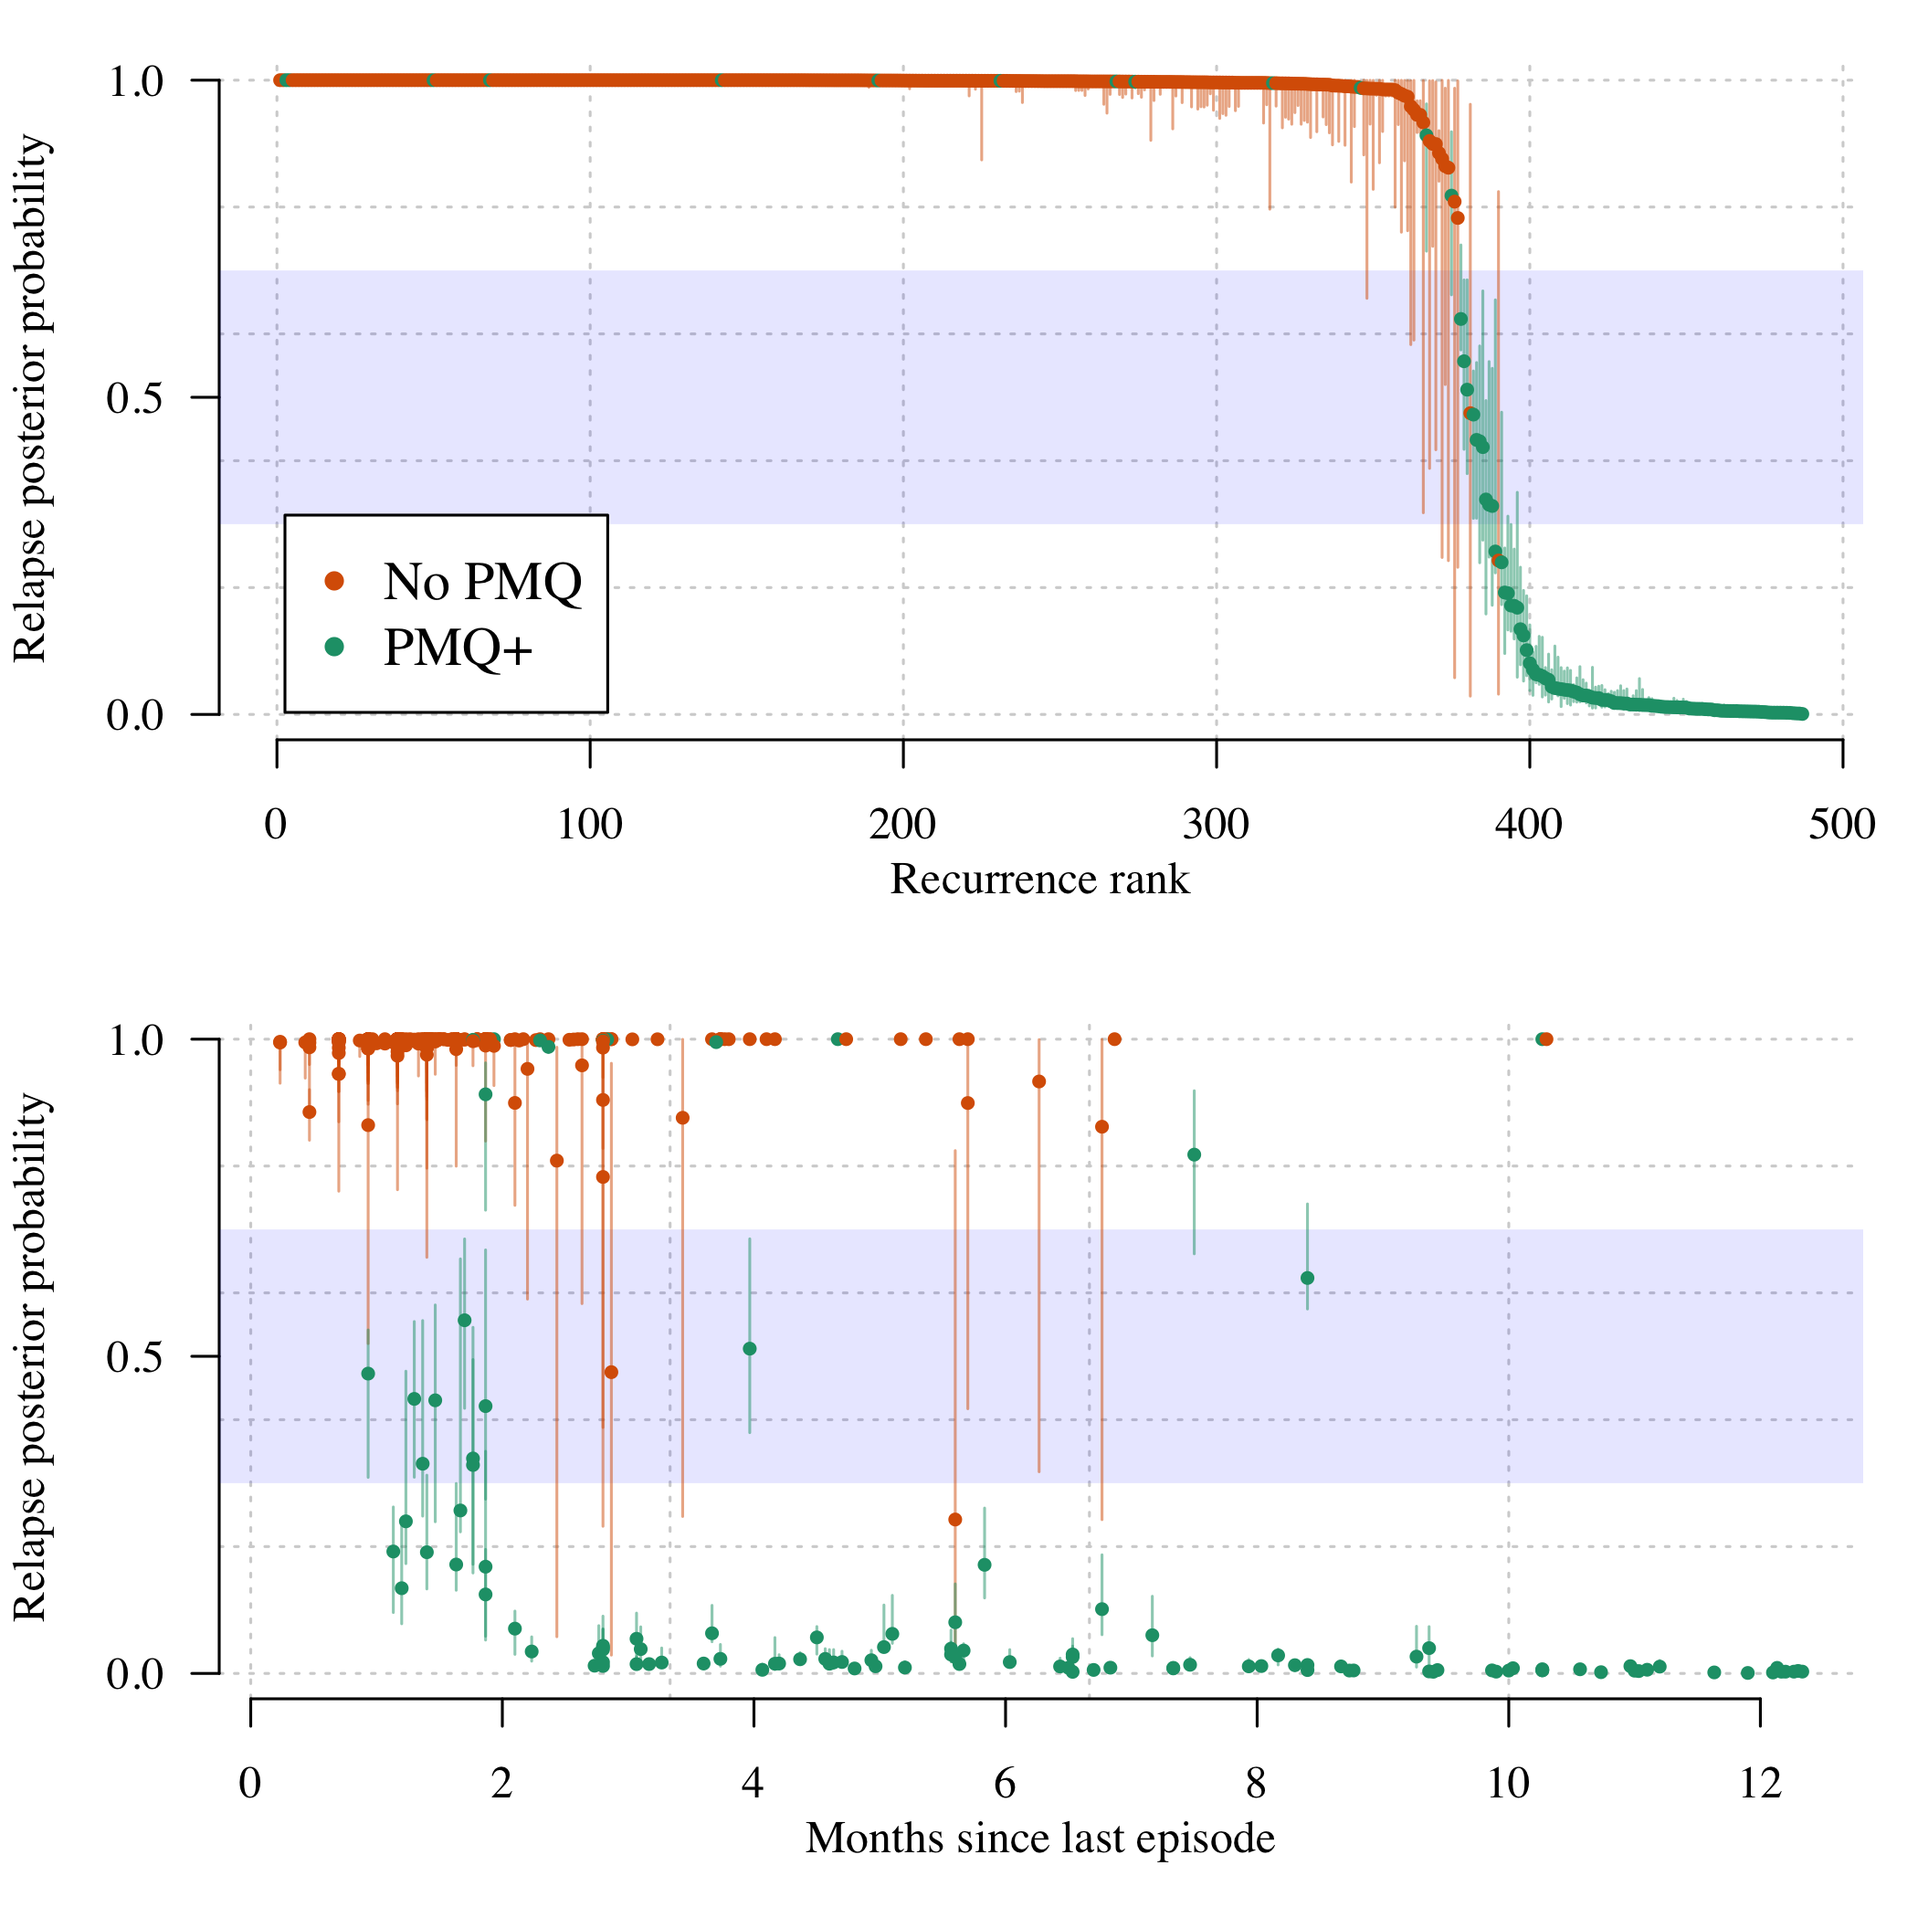
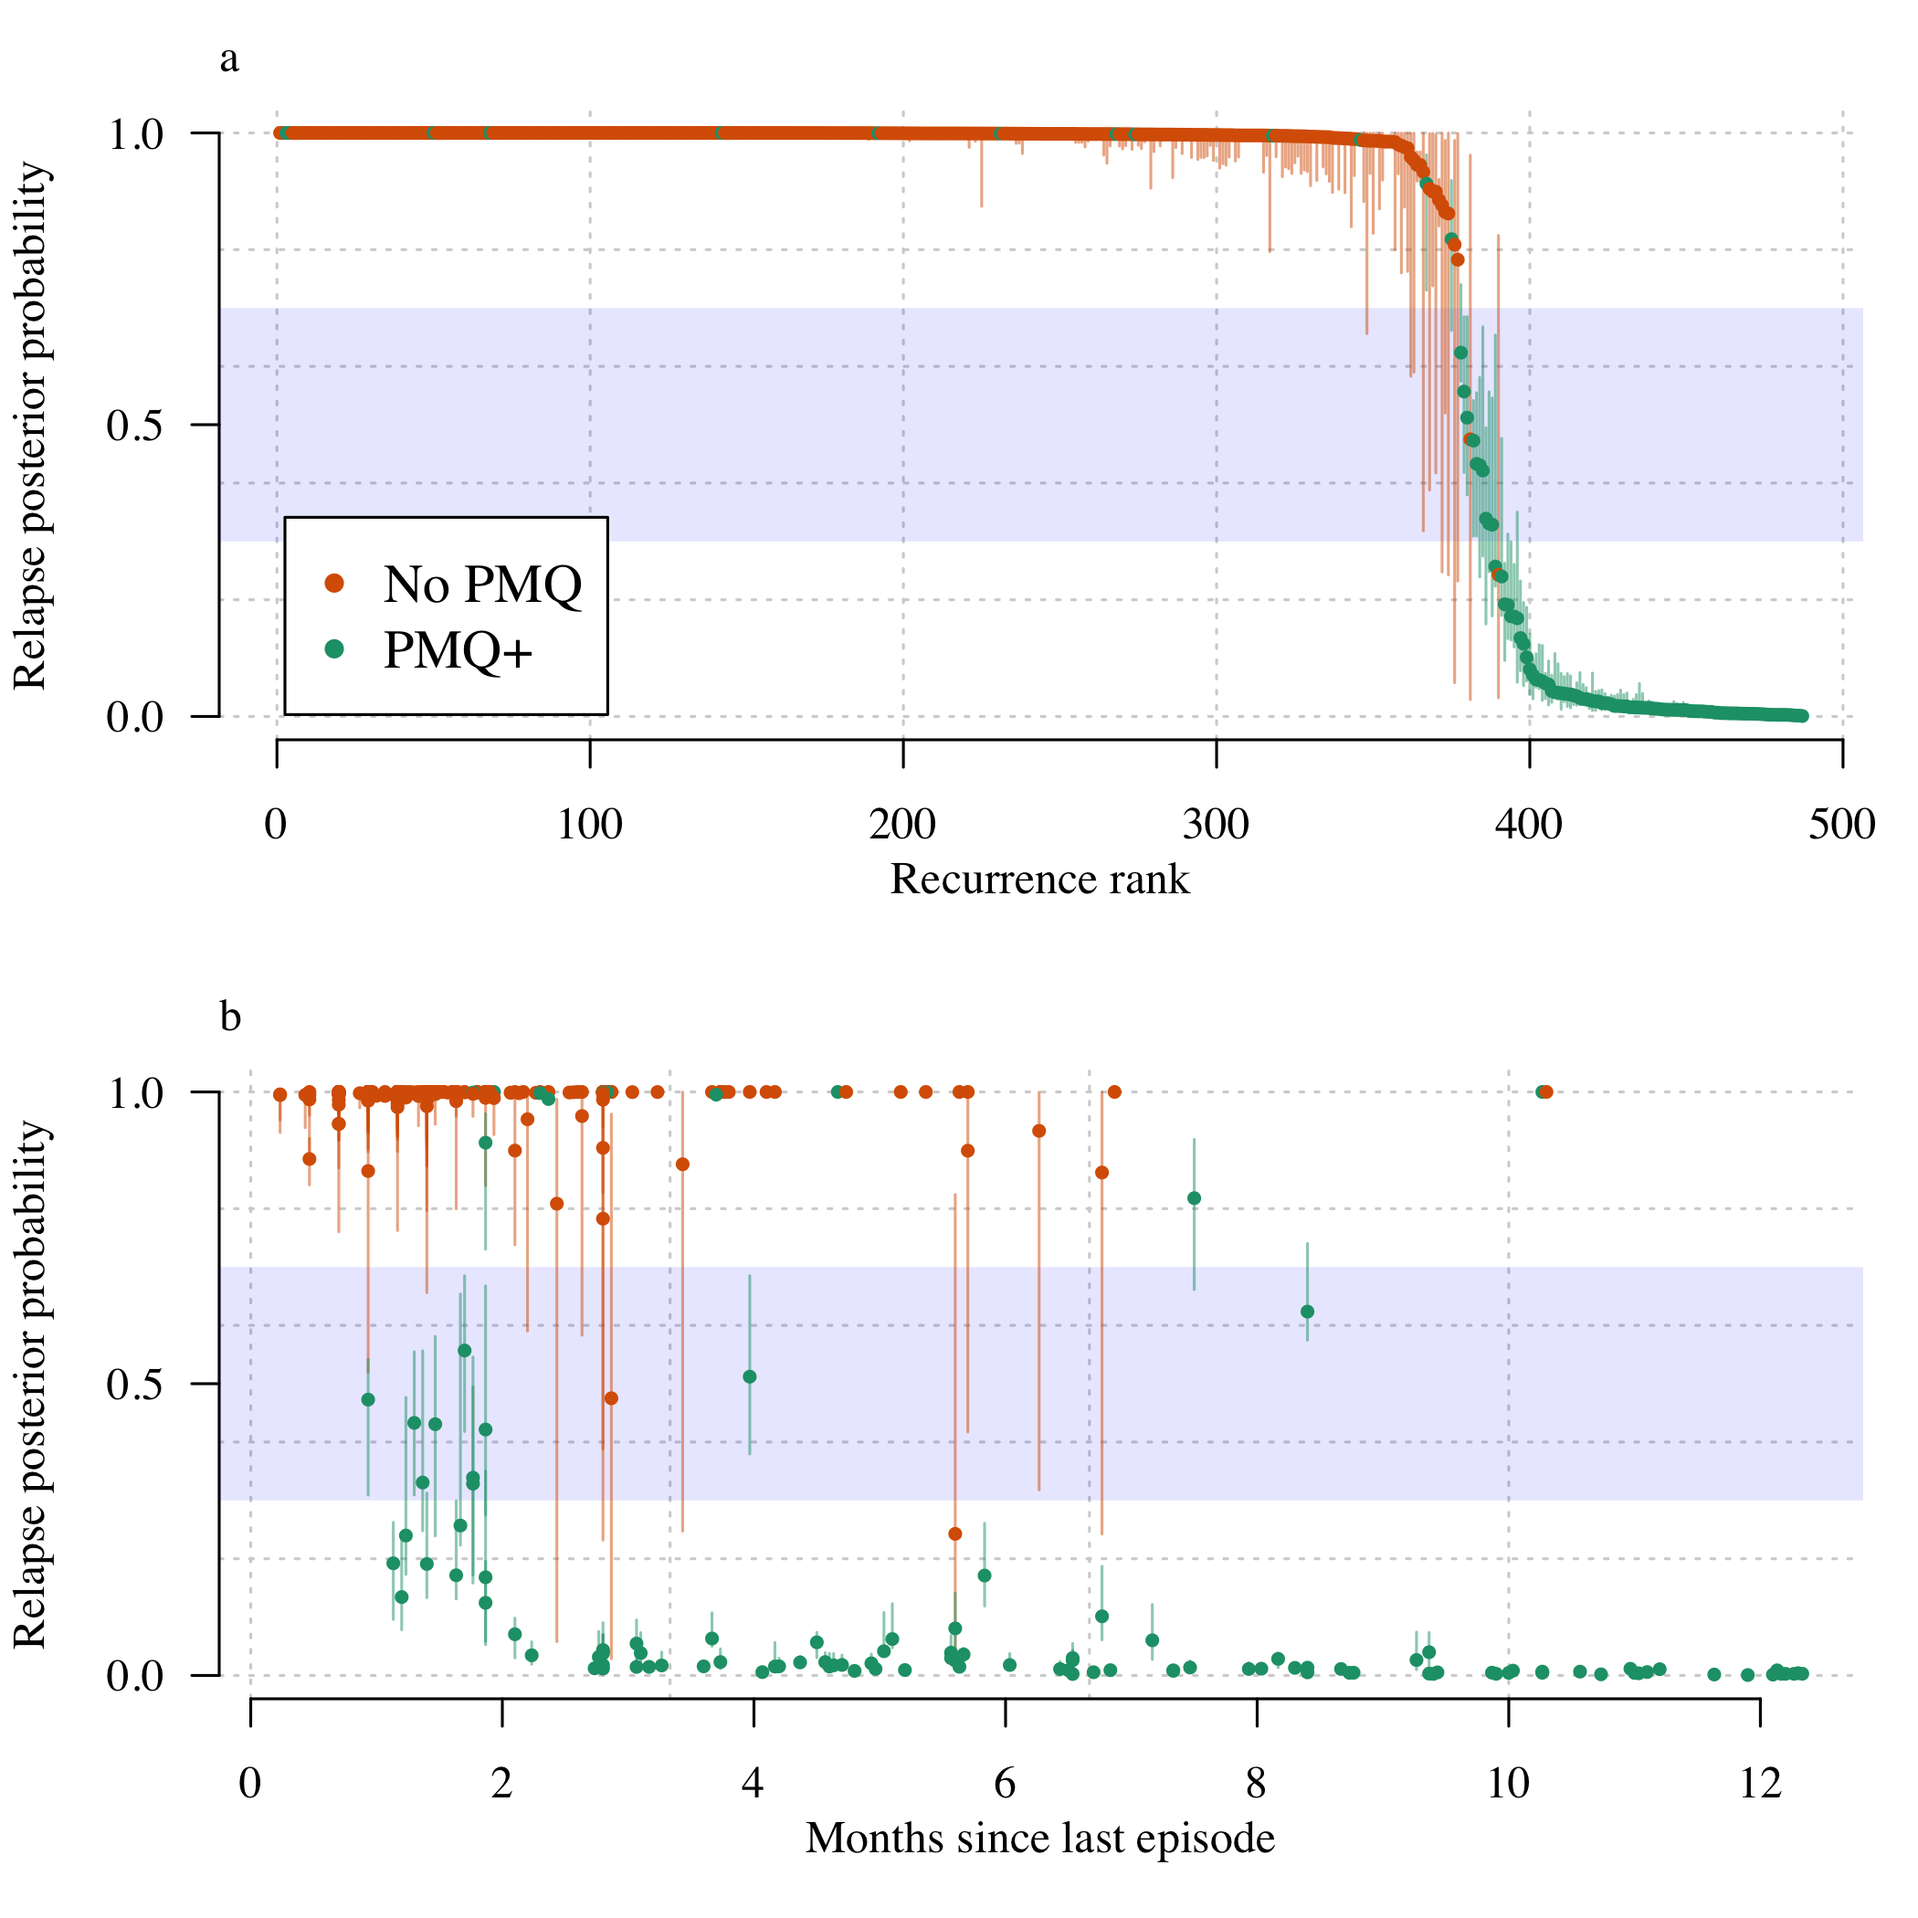
minor changes to plots
Nat comms revision requests

diff --git a/Timing_Model/TimingModelStan.md b/Timing_Model/TimingModelStan.md
@@ -251,6 +251,10 @@ output:
 ```
 
 ```
+## Loading required package: usethis
+```
+
+```
 ## Loading required package: truncnorm
 ```
 
@@ -1590,7 +1594,7 @@ plot(Combined_Time_Data$Time_to_event[ind_plotting], log10(mean_labels_ReLap),
      cex=1,panel.first = grid(),
      ylab='',yaxt='n',
      xlab='', xlim=c(0,360))
-mtext(text='A: Relapse', side = 3, adj = 0, line=0.5)
+mtext(text='a (Relapse)', side = 3, adj = 0, line=0.5)
 mtext(text = 'Probability',side = 2,line=3.5,cex=.8,las=3)
 axis(side=2, at = -2:0, c(expression(10^-2, 10^-1),1))
 axis(1, at = seq(0, 360, by=60), labels = seq(0, 360, by=60)/30)
@@ -1607,7 +1611,7 @@ plot(Combined_Time_Data$Time_to_event[ind_plotting], log10(mean_labels_ReCrud),
      cex=1,panel.first = grid(),
      ylab='',yaxt='n',
      xlab='', xlim=c(0,360), ylim= c(min(log10(mean_labels_ReCrud)),0))
-mtext(text='B: Recrudescence', side = 3, adj = 0, line=0.5)
+mtext(text='b (Recrudescence)', side = 3, adj = 0, line=0.5)
 mtext(text = 'Months from last episode',side = 1,line=3,cex=.9)
 mtext(text = 'Probability',side = 2,line=3.5,cex=.8,las=3)
 axis(1, at = seq(0,12,by=2)*30, labels = seq(0,12,by=2))
@@ -1625,7 +1629,7 @@ plot(Combined_Time_Data$Time_to_event[ind_plotting], log10(mean_labels_Reinfecti
      xlab='', xlim=c(0,360))
 mtext(text = 'Probability',side = 2, las=3,line=3.5,cex=.8)
 mtext(text = 'Months from last episode',side = 1,line=3,cex=.9)
-mtext(text='C: Reinfection', side = 3, adj = 0, line=0.5)
+mtext(text='c (Reinfection)', side = 3, adj = 0, line=0.5)
 axis(1, at = seq(0, 360, by=60), labels = seq(0, 360, by=60)/30)
 axis(side=2, at = c(-3,-2,-1,0), c(expression(10^-3, 10^-2, 10^-1),1))
 axis(2, at = log10(seq(.1,1,by=.1)), labels = NA)
@@ -1651,7 +1655,7 @@ plot(t_points, PMQ_labels[,1], lwd=2, type='l', ylim = c(0,1),
      xlab='', ylab='Recurrence state probability',yaxt='n',xaxt='n',lty=LinesTypes[1])
 lines(t_points, PMQ_labels[,2], lwd=2,col=drug_cols3['CHQ/PMQ'], lty=LinesTypes[2])
 lines(t_points, PMQ_labels[,3], lwd=2,col=drug_cols3['CHQ/PMQ'], lty=LinesTypes[3])
-mtext(text='D', side = 3, adj = 0, line=0.5)
+mtext(text='d', side = 3, adj = 0, line=0.5)
 mtext(text = 'Months from last episode',side = 1,line=3,cex=.65)
 axis(2, at = c(0,.25,.5,.75,1))
 axis(1, at = c(0,3,6,9,12))
@@ -1666,6 +1670,7 @@ AS_labels = Label_probability(drug = 'AS',t = t_points*30, thetas = thetas_mod2)
 plot(t_points, CQ_labels[,1], lwd=1, type='l', ylim = c(0,1),
      main = 'No PMQ', col=drug_cols3['CHQ'], xlab='',lty=LinesTypes[1],
      panel.first = grid(), ylab = 'Recurrence state probability',xaxt='n',yaxt='n')
+mtext(text='e', side = 3, adj = 0, line=0.5)
 axis(2, at = c(0,.25,.5,.75,1))
 axis(1, at = c(0,3,6,9,12))
 lines(t_points, CQ_labels[,2], lwd=1,col=drug_cols3['CHQ'],lty=LinesTypes[2])
@@ -1763,6 +1768,7 @@ plot(log10(Combined_Time_Data$Relapse_mean_theta[ind]),
      type='p',yaxt='n', main ='No PMQ',pch=20,cex=.3,
      ylab = 'Probability of relapse', xlab = '',panel.first = grid(),
      col = drug_cols3[Combined_Time_Data$arm_num[ind]], xaxt='n')
+mtext(text='a', side = 3, adj = 0, line=0.5)
 Nrecs = length(Combined_Time_Data$Relapse_mean_theta[ind])
 polygon(x = c(0,Nrecs,Nrecs,0),
         y = log10(c(Epsilon_lower,Epsilon_lower,Epsilon_upper,Epsilon_upper)),
@@ -1782,6 +1788,7 @@ plot(log10(Combined_Time_Data$Relapse_mean_theta[ind]),
      type='p',cex=.3, yaxt='n', xlab = '',col=drug_cols2[3],
      ylab = 'Probability of relapse',panel.first = grid(),
      main = 'PMQ+', pch=20)
+mtext(text='b', side = 3, adj = 0, line=0.5)
 Nrecs = length(Combined_Time_Data$Relapse_mean_theta[ind])
 polygon(x = c(0,Nrecs,Nrecs,0),
         y = log10(c(Epsilon_lower,Epsilon_lower,Epsilon_upper,Epsilon_upper)),
@@ -1820,6 +1827,7 @@ plot(df$time,df$uncertainty,  xaxt='n',
      col = df$col,pch=20, xlab='', main = '')
 axis(1, at = seq(0,360, by = 60), labels = seq(0,360,by=60)/30)
 mtext(text = 'Months from last episode',side = 1, line = 3)
+mtext(text='c', side = 3, adj = 0, line=0.5)
 
 # add spline fits to show trends
 

diff --git a/Pooled_Final_Analysis/Pooled_Analysis.md b/Pooled_Final_Analysis/Pooled_Analysis.md
@@ -1475,7 +1475,7 @@ Results for all those genotyped who did receive primaquine (VHX and BPD studies 
 ## In primaquine treated individuals, the weighted average of reinfections is 83 (79.2-85.6), for 121 recurrences
 ```
 
-Results for all those genotyped who did receive primaquine in the VHX study (unknown denominator)
+Results for all those genotyped who did receive primaquine in the VHX study
 
 ```
 ## In primaquine treated individuals (VHX), the weighted average of relapses is 10.8 (8.8-13.3), for 34 recurrences
@@ -1489,7 +1489,7 @@ Results for all those genotyped who did receive primaquine in the VHX study (unk
 ## In primaquine treated individuals (VHX), the weighted average of reinfections is 89.2 (86.7-91.2), for 34 recurrences
 ```
 
-Results for all those genotyped who did receive primaquine in the BPD study (known denominator)
+Results for all those genotyped who did receive primaquine in the BPD study
 
 ```
 ## In primaquine treated individuals (BPD), the weighted average of relapses is 19.4 (16.6-23.7), for 87 recurrences
@@ -2221,6 +2221,18 @@ writeLines(sprintf('The primaquine failure rate, based on genetic model only, in
 
 ```
 ## The primaquine failure rate, based on genetic model only, in the 655 individuals is 4.79% (4.68-4.88) over the course of 522 years total follow-up.
+```
+
+```r
+writeLines(sprintf('Observed BPD recurrences estimated to be failures, based on genetic model only, in the %s individuals is %s%% (%s-%s).',
+                   nrow(BPD_data), 
+                   round(sum(thetas_9MS_Tagnostic$`L50%`[grep('BPD',thetas_9MS_Tagnostic$Episode_Identifier)]),1),
+                   round(sum(thetas_9MS_Tagnostic$`L2.5%`[grep('BPD',thetas_9MS_Tagnostic$Episode_Identifier)]),1),
+                   round(sum(thetas_9MS_Tagnostic$`L97.5%`[grep('BPD',thetas_9MS_Tagnostic$Episode_Identifier)]),1)))
+```
+
+```
+## Observed BPD recurrences estimated to be failures, based on genetic model only, in the 655 individuals is 29.9% (29.1-30.9).
 ```
 
 
